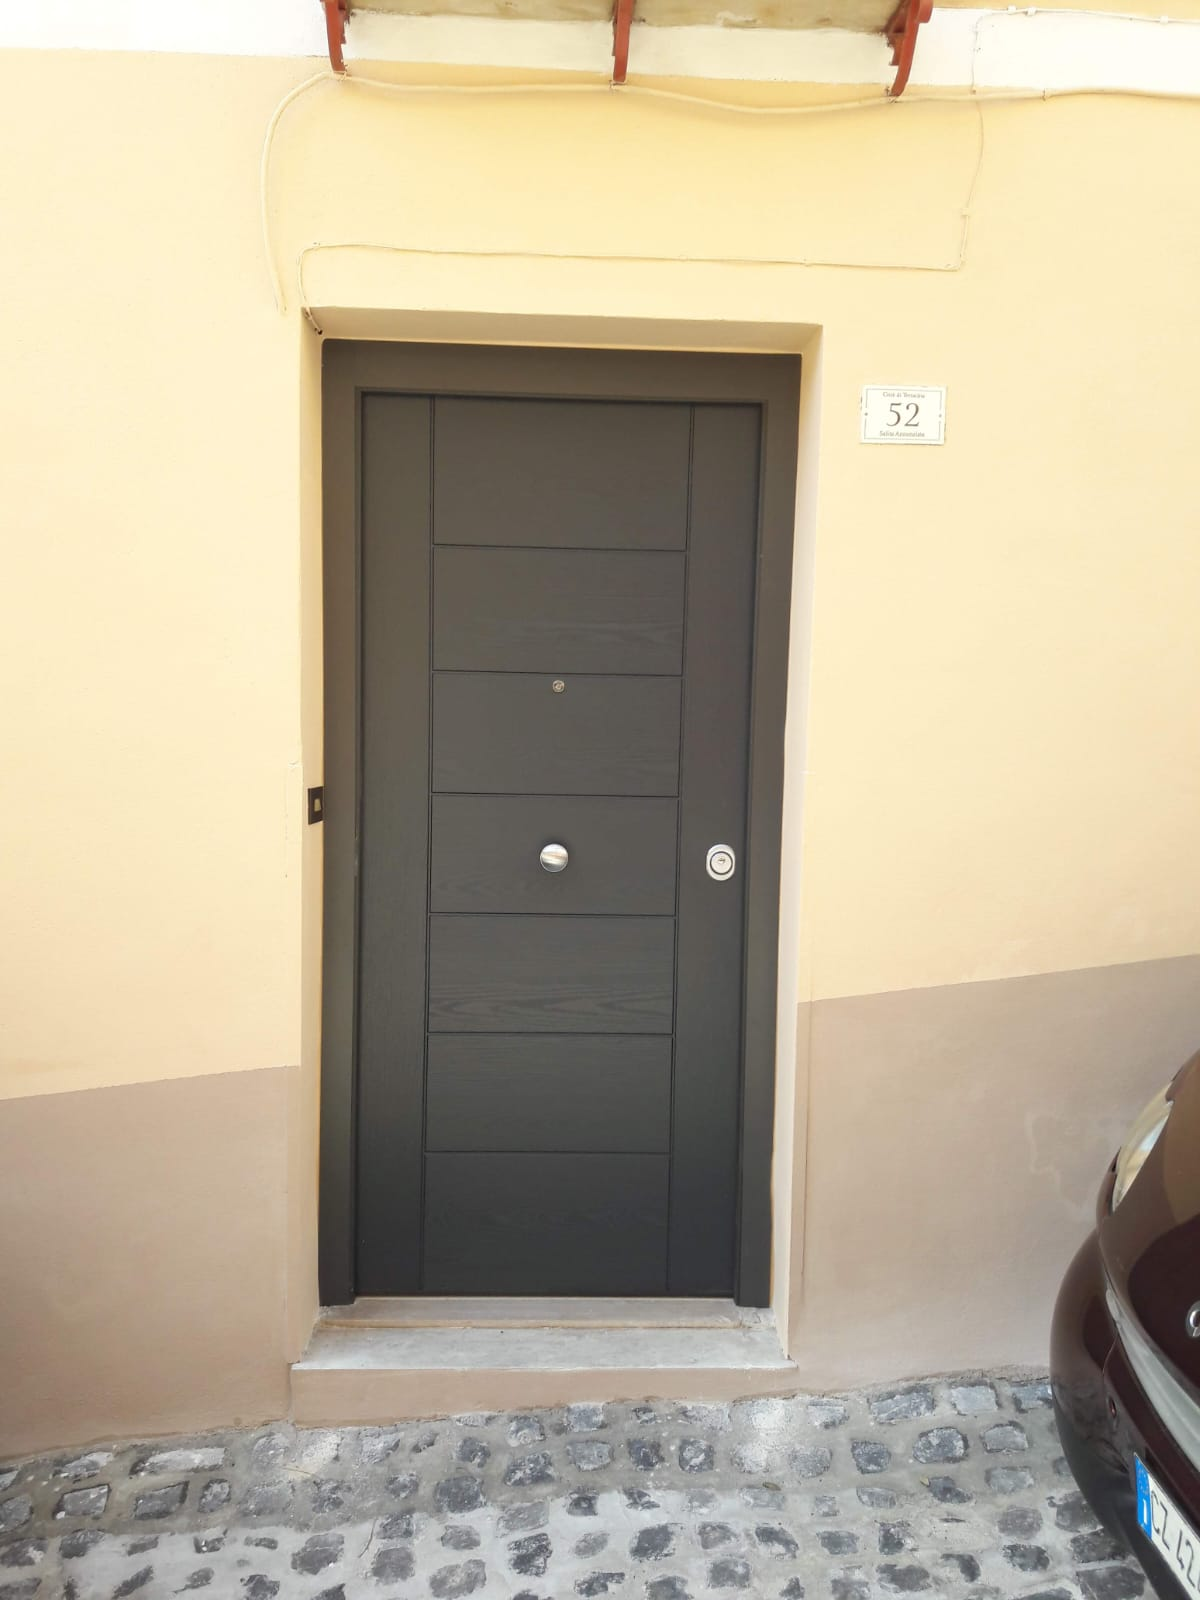
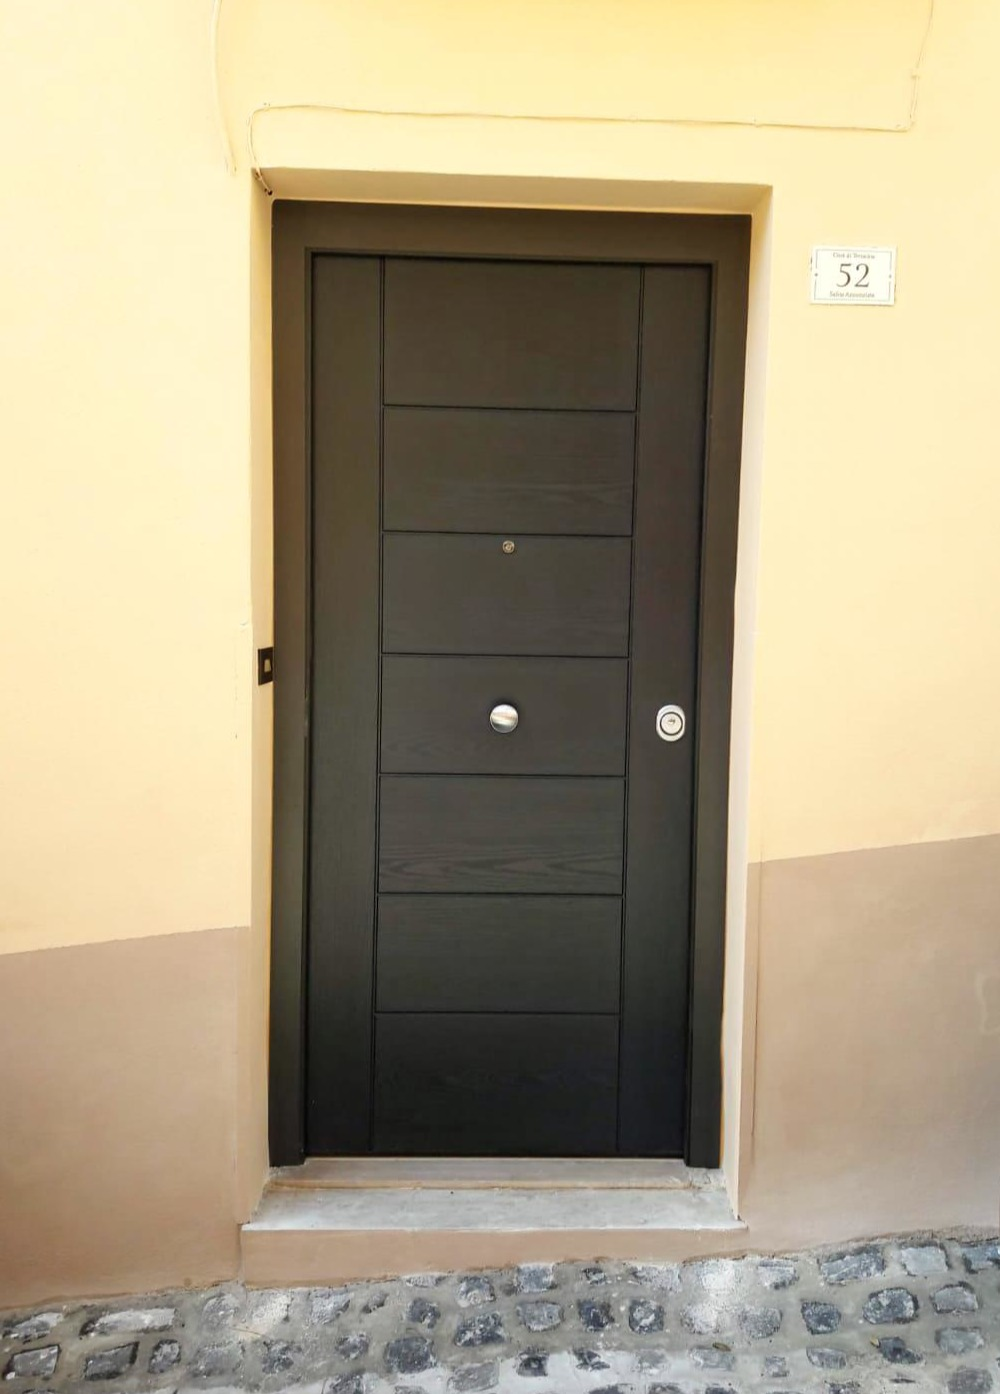
ottimizzata foto portone blindato

diff --git a/src/app/contatti/page.tsx b/src/app/contatti/page.tsx
@@ -19,7 +19,7 @@ export default function ContattiPage() {
               fill
               priority
               // Usiamo object-top o un valore percentuale per non tagliare il centro
-              className="object-cover object-[center_30%]"
+              className="object-cover object-[center_50%]"
               unoptimized
             />
           )}
